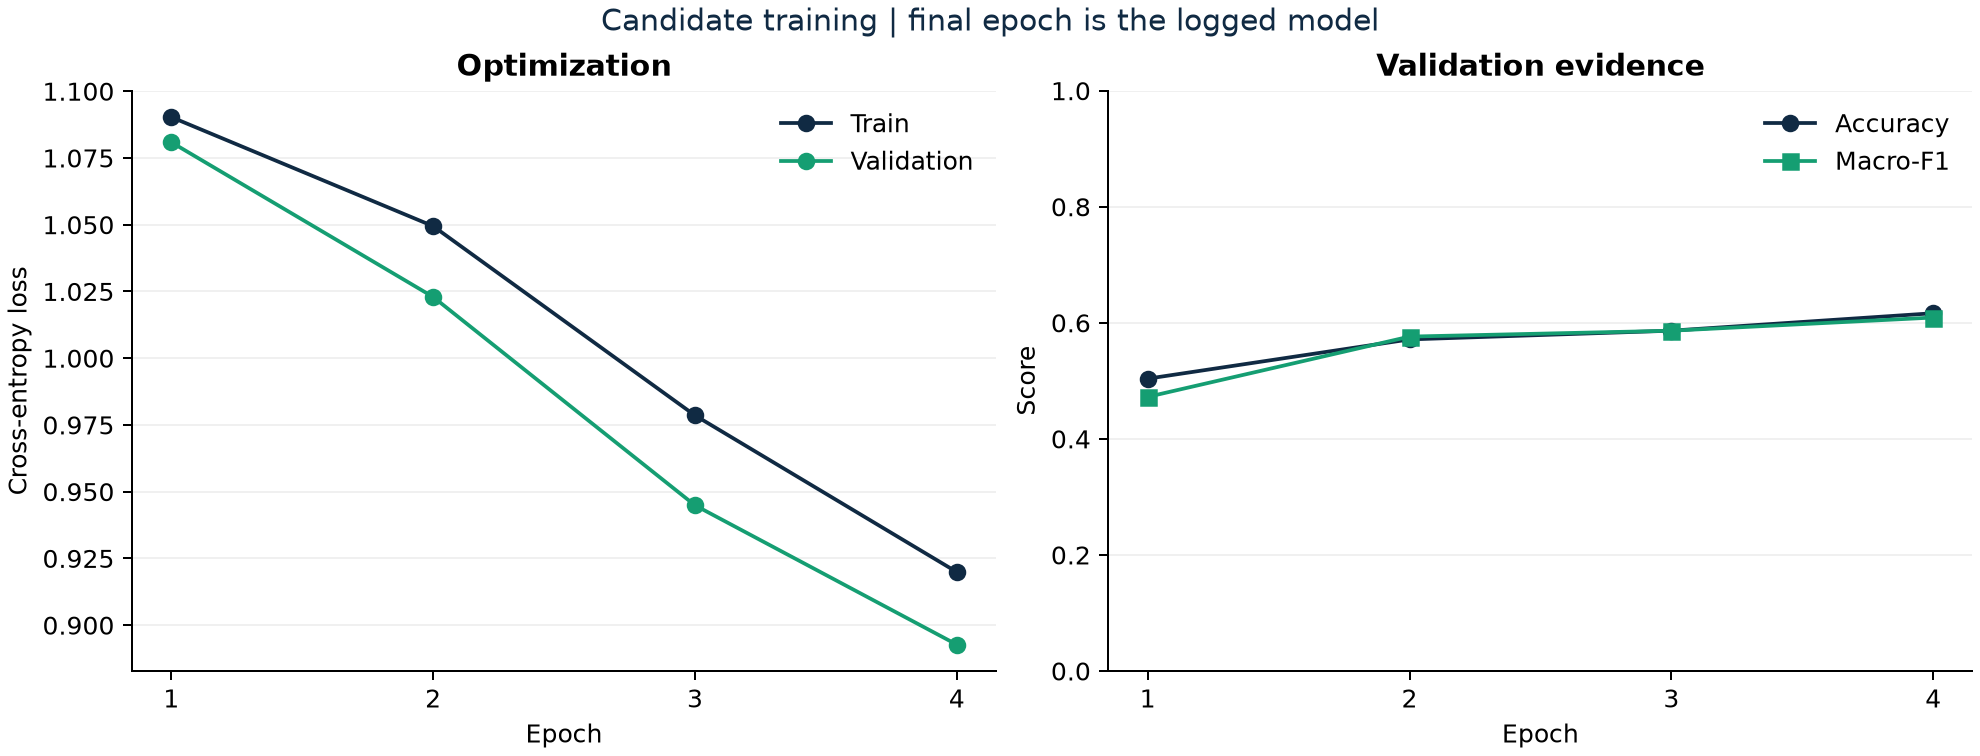
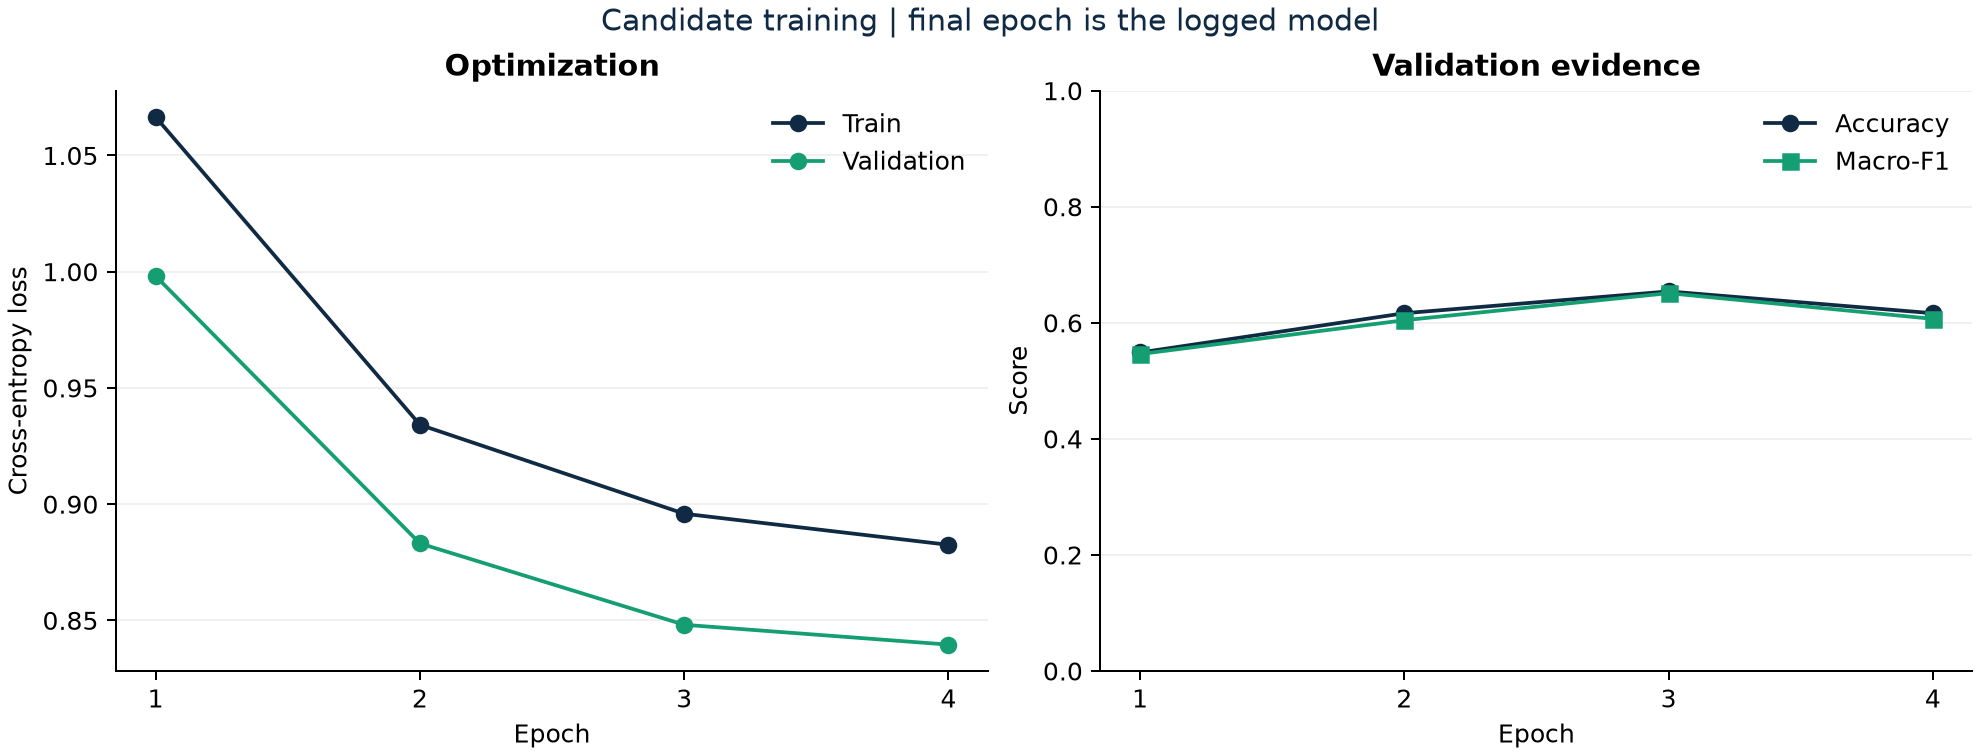
Compare three training runs

diff --git a/LAB_REPORT.md b/LAB_REPORT.md
@@ -581,3 +581,61 @@ The objective of this milestone is to conduct a third controlled experiment and 
 ### 7.2 Run C — Configuration and Hypothesis
 
 For Run C, the learning rate was restored to the baseline value of 0.001, and the dropout rate was increased from 0.30 to 0.50. All other hyperparameters, the dataset, the random seed and the number of epochs remain unchanged. Increasing dropout introduces stronger regularization by randomly disabling a larger proportion of activations during training. This may reduce overfitting and improve generalization. However, given the limited training budget of four epochs, stronger regularization may also slow learning and reduce final validation performance. We expect a higher training loss and potentially lower final validation macro-F1 compared with Run A. Regarding DVC, we expect VALIDATE and PREPARE to reuse their existing outputs, while TRAIN should execute again because its parameter dependencies have changed. EVALUATE will not be executed.
+
+### 7.3 Run C — Experimental Results
+
+Run C was successfully executed with a learning rate of 0.001 and a dropout rate of 0.50. The provenance manifest confirmed that the training data identity, random seed, software environment and remaining hyperparameters were unchanged compared with the baseline. 
+
+The following results were obtained:
+| Epoch | Training loss | Validation loss | Validation accuracy | Validation macro-F1 |
+| 1 | 1.0665 | 0.9981 | 0.5489 | 0.5462 |
+| 2 | 0.9341 | 0.8831 | 0.6165 | 0.6045 |
+| 3 | 0.8959 | 0.8481 | 0.6541 | 0.6511 |
+| 4 | 0.8825 | 0.8396 | 0.6165 | 0.6068 |
+
+Experiment provenance:
+- MLflow Run ID: '9dfd3efce53743d6ab6dea8829f5998d'
+- Git commit: '16db074a37dfbfc706aed36696dce975e5d48061'
+- Git dirty flag: 'true'
[1 lines of base64/hex data omitted]
+- Training device: CPU
+- Random seed: 42
+- Training duration: 13.73 seconds
+
+The Git dirty flag was recorded as true. The exact cause of the uncommitted changes was not independently verified. The DVC execution also confirmed the expected pipeline behaviour:
+| Stage | Expected | Observed |
+| VALIDATE | REUSED | REUSED |
+| PREPARE | REUSED | REUSED |
+| TRAIN | RERUN | RERUN |
+| EVALUATE | NOT RUN | NOT RUN |
+
+### 7.4 Comparison of the Three Controlled Runs
+
+The three experiments were compared using their final-epoch validation metrics because the training pipeline saves the model obtained at the end of the final epoch.
+
+| Run | Controlled change | Val. Accuracy | Val. Macro-F1 | Training time | MLflow Run ID |
+| A | Baseline | 0.6391 | 0.6254 | 11.26 s | 'e220c216b7ff4f4bacca5a3eb8de09f5' |
+| B | Learning rate = 0.0003 | 0.6165 | 0.6091 | 8.05 s | 'd0c42523f95c421ca51a428e824acdb6' |
+| C | Dropout = 0.50 | 0.6165 | 0.6068 | 13.73 s | '9dfd3efce53743d6ab6dea8829f5998d' |
+
+### 7.5 Results Interpretation
+
+**Run B compared with Run A**
+
+Reducing the learning rate from 0.001 to 0.0003 resulted in a higher final training loss and lower validation performance. The validation macro-F1 decreased from 0.6254 to 0.6091, representing a reduction of approximately 1.63 percentage points. These observations support the initial hypothesis that a smaller learning rate may slow convergence within a fixed training budget of four epochs.
+
+**Run C compared with Run A**
+
+Increasing dropout from 0.30 to 0.50 resulted in a higher final training loss, increasing from 0.8672 to 0.8825. The final validation macro-F1 decreased from 0.6254 to 0.6068, representing a reduction of approximately 1.86 percentage points. These observations support the hypothesis that stronger regularization may make learning more difficult within the limited training budget. Although Run C achieved a validation macro-F1 of 0.6511 at epoch 3, this value was not used for model selection because the saved model corresponds to epoch 4.
+
+**Experimental limitations**
+
+All experiments were conducted using a single random seed, four training epochs and a relatively small validation dataset of 133 images. Consequently, small differences in validation performance do not establish that one hyperparameter configuration is universally superior. Similarly, the measured training durations may be influenced by system load and other execution conditions.
+
+### 7.6 Engineering Checkpoint 6 — Model Selection Metric
+
+Macro-F1 was selected as the primary validation metric because the classification problem contains three classes: angular leaf spot, bean rust and healthy. Macro-F1 calculates the F1-score independently for each class and averages the results with equal weighting. It considers both precision and recall and provides a measure of performance across all three classes. In the event of a tie, validation accuracy is used as the secondary criterion, followed by training duration if both validation metrics are identical. The test dataset must only be used after model selection to preserve its independence from the training and hyperparameter selection processes. Using test results to compare or select models would introduce selection bias and could produce an overly optimistic estimate of generalization performance.
+
+### 7.7 Conclusion
+
+Among the three controlled experiments, Run A achieved the highest final validation macro-F1 of 0.6254 and the highest validation accuracy of 0.6391. According to the selection criteria established before training, Run A is the leading candidate for the final test evaluation. No test evaluation was performed during the controlled experiment comparison.
